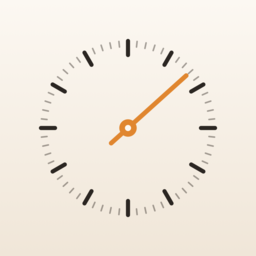
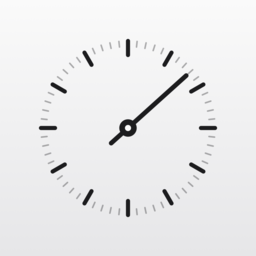
配色をモノトーンに変更、設定状況の確認方法をFAQに追加

Changed region(s): [[0.4062, 0.2812, 0.75, 0.5625]]

diff --git a/style.css b/style.css
@@ -1,19 +1,19 @@
 :root {
-  --bg: #fcf8f2;
-  --fg: #2b2622;
-  --muted: #6f665e;
-  --accent: #c8711f;
+  --bg: #fafafa;
+  --fg: #1c1c1e;
+  --muted: #6e6e73;
+  --accent: #1c1c1e;
   --card: #ffffff;
-  --line: #ebe2d6;
+  --line: #e5e5ea;
 }
 @media (prefers-color-scheme: dark) {
   :root {
-    --bg: #12100e;
-    --fg: #ede6dc;
-    --muted: #a59b90;
-    --accent: #f0a04b;
-    --card: #1d1a17;
-    --line: #2e2a26;
+    --bg: #0b0b0c;
+    --fg: #f2f2f7;
+    --muted: #98989d;
+    --accent: #f2f2f7;
+    --card: #1c1c1e;
+    --line: #2c2c2e;
   }
 }
 * { box-sizing: border-box; }
@@ -33,7 +33,8 @@ header .sub { color: var(--muted); font-size: 0.9rem; }
 h1 { font-size: 1.6rem; line-height: 1.35; margin: 0 0 8px; }
 h2 { font-size: 1.1rem; margin: 36px 0 8px; }
 p, li { font-size: 1rem; }
-a { color: var(--accent); }
+a { color: var(--accent); text-decoration: underline; text-decoration-color: var(--muted); text-underline-offset: 3px; }
+a:hover { text-decoration-color: var(--accent); }
 .updated { color: var(--muted); font-size: 0.9rem; }
 .card { background: var(--card); border: 1px solid var(--line); border-radius: 16px; padding: 4px 20px; margin: 16px 0; }
 .links { list-style: none; padding: 0; }

diff --git a/support.html b/support.html
@@ -26,6 +26,9 @@
 </ol>
 <p class="important">「すぐに実行」を選び、「実行時に通知」をオフにするのが大事なポイントです。</p>
 
+<h2>設定できたか確認するには？</h2>
+<p>アプリのメイン画面の「常時表示を設定 n/4」をタップすると、4つの時刻ごとに動作状況（✓）を確認できます。まだ実行されていない時刻があれば、その時刻の設定方法を案内します。✓ は設定した時刻を過ぎてから付きます。</p>
+
 <h2>8時間で表示が消えるのはなぜ？</h2>
 <p>iOSの仕様で、ライブアクティビティ（Dynamic Islandやロック画面の表示）は最長8時間で終了します。本アプリでは、終了の少し前に通知でお知らせします。通知をタップすると表示を再開できます。ずっと表示したい場合は、上のオートメーションを設定してください。</p>
 

diff --git a/en/support.html b/en/support.html
@@ -26,6 +26,9 @@
 </ol>
 <p class="important">The key points: select “Run Immediately” and turn off “Notify When Run”.</p>
 
+<h2>How can I check that it's set up?</h2>
+<p>On the app's main screen, tap “Set Up Always-On n/4” to see the status of each of the 4 times (✓). If a time hasn't run yet, the app shows how to set it up. A ✓ appears after the scheduled time has passed.</p>
+
 <h2>Why does the display disappear after 8 hours?</h2>
 <p>iOS ends Live Activities (the Dynamic Island and Lock Screen display) after 8 hours at most. Byoshin sends a notification shortly before that; tap it to keep the display going. To keep it on all the time, set up the automation above.</p>
 
